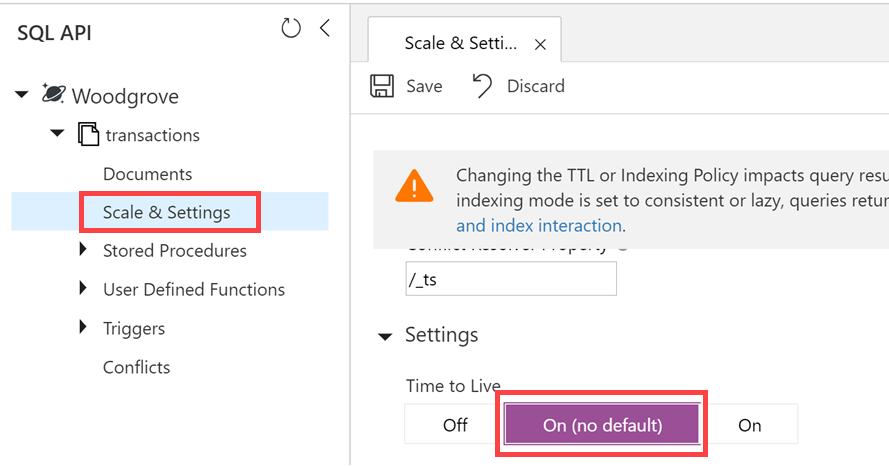
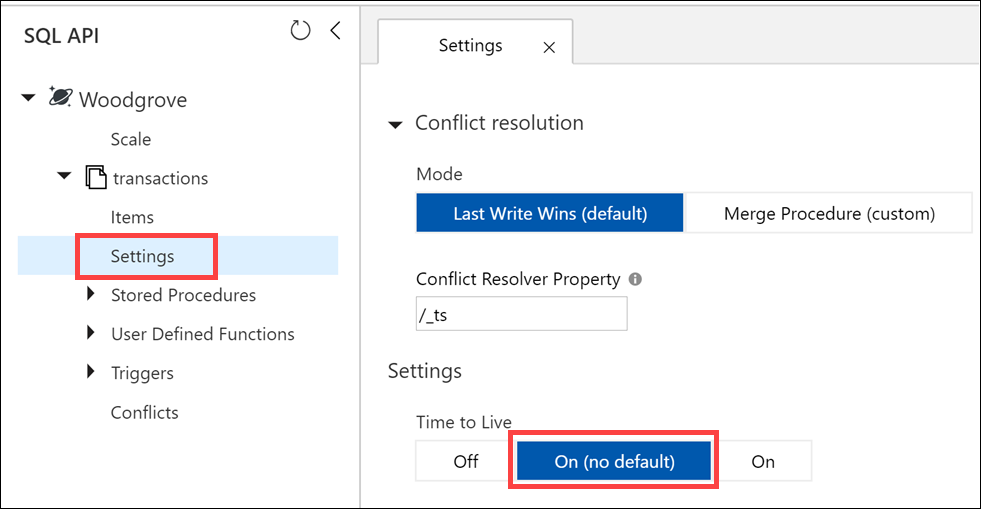
Test/fix updates and WDS current process clarification

diff --git a/Whiteboard design session/WDS trainer guide - Cosmos DB real-time advanced analytics.md b/Whiteboard design session/WDS trainer guide - Cosmos DB real-time advanced analytics.md
@@ -9,7 +9,7 @@ Whiteboard design session trainer guide
 </div>
 
 <div class="MCWHeader3">
-April 2019
+June 2019
 </div>
 
 Information in this document, including URL and other Internet Web site references, is subject to change without notice. Unless otherwise noted, the example companies, organizations, products, domain names, e-mail addresses, logos, people, places, and events depicted herein are fictitious, and no association with any real company, organization, product, domain name, e-mail address, logo, person, place or event is intended or should be inferred. Complying with all applicable copyright laws is the responsibility of the user. Without limiting the rights under copyright, no part of this document may be reproduced, stored in or introduced into a retrieval system, or transmitted in any form or by any means (electronic, mechanical, photocopying, recording, or otherwise), or for any purpose, without the express written permission of Microsoft Corporation.
@@ -31,10 +31,11 @@ Microsoft and the trademarks listed at <https://www.microsoft.com/legal/intellec
   - [Whiteboard design session flow](#whiteboard-design-session-flow)
   - [Before the whiteboard design session: How to prepare](#before-the-whiteboard-design-session-how-to-prepare)
   - [During the whiteboard design session: Tips for an effective whiteboard design session](#during-the-whiteboard-design-session-tips-for-an-effective-whiteboard-design-session)
-- [Cosmos DB real-time advanced analytics whiteboard design session student guide](#\insert-workshop-name-here-whiteboard-design-session-student-guide)
+- [Cosmos DB real-time advanced analytics whiteboard design session student guide](#cosmos-db-real-time-advanced-analytics-whiteboard-design-session-student-guide)
   - [Abstract and learning objectives](#abstract-and-learning-objectives)
   - [Step 1: Review the customer case study](#step-1-review-the-customer-case-study)
     - [Customer situation](#customer-situation)
+      - [Woodgrove's current process](#woodgroves-current-process)
     - [Customer needs](#customer-needs)
     - [Customer objections](#customer-objections)
     - [Infographic for common scenarios](#infographic-for-common-scenarios)
@@ -42,7 +43,7 @@ Microsoft and the trademarks listed at <https://www.microsoft.com/legal/intellec
   - [Step 3: Present the solution](#step-3-present-the-solution)
   - [Wrap-up](#wrap-up)
   - [Additional references](#additional-references)
-- [Cosmos DB real-time advanced analytics whiteboard design session trainer guide](#\insert-workshop-name-here-whiteboard-design-session-trainer-guide)
+- [Cosmos DB real-time advanced analytics whiteboard design session trainer guide](#cosmos-db-real-time-advanced-analytics-whiteboard-design-session-trainer-guide)
   - [Step 1: Review the customer case study](#step-1-review-the-customer-case-study-1)
   - [Step 2: Design a proof of concept solution](#step-2-design-a-proof-of-concept-solution-1)
   - [Step 3: Present the solution](#step-3-present-the-solution-1)
@@ -202,11 +203,26 @@ While all forms of fraud are on the rise, like ATM fraud, card transaction fraud
 
 Given this focus on online fraud, they want to provide new services to their merchant customers, helping them save costs by applying machine learning and advanced analytics to detect fraudulent transactions. Their customers are around the world, and the right solutions for them would minimize any latencies experienced using their service by distributing as much of the solution as possible, as closely as possible, to the regions in which their customers use the service. This is the solution for which they would like to implement a PoC.
 
-In flagging fraudulent transactions, they know there are tradeoffs between being overly aggressive and mistakenly identifying innocuous transactions as fraudulent, and not being aggressive enough such that they miss transactions that represent real fraud. According to Mari Stephens, Chief Information Officer (CIO), Woodgrove Bank, they would rather miss a fraudulent event in their automated system, than mistakenly identify innocuous transactions as fraudulent because the latter will frustrate both their merchant customer and the end customers and potentially lose their business. However, they want to balance this by doing as much as they can to detect fraud while minimizing the customer frustration. To address this, they believe the PoC will need to handle transactions at two "speeds". First, they want to screen transactions for fraud as they happen, only blocking a transaction if the system is very confident it is fraudulent. Second, they want to perform a more in-depth, offline fraud sweep of transactions to identify suspicious transactions. These are transactions which are potentially fraud, for which they will notify the merchant that they should perform additional verification with the end customer before completing the order.
+In flagging fraudulent transactions, they know there are tradeoffs between being overly aggressive and mistakenly identifying innocuous transactions as fraudulent, and not being aggressive enough such that they miss transactions that represent real fraud. According to Mari Stephens, Chief Information Officer (CIO), Woodgrove Bank, they would rather miss a fraudulent event in their automated system, than mistakenly identify innocuous transactions as fraudulent because the latter will frustrate both their merchant customer and the end customers and potentially lose their business. However, they want to balance this by doing as much as they can to detect fraud while minimizing the customer frustration. To address this, they believe the PoC will need to handle transactions at two "speeds". First, they want to screen transactions for fraud as they happen, only blocking a transaction if the system is very confident it is fraudulent. Second, they want to perform a more in-depth, offline fraud sweep of transactions to identify suspicious transactions. These are transactions which are potentially fraud, for which they will notify the merchant that they should perform additional verification with the end customer before completing the order. This deeper analysis that is performed in batch may use a slightly different ML model, but since it is a more intensive run, it needs to be run in batch and score transactions a little less leniently than the real-time scoring model. Remember, Woodgrove wants to minimize false positives during real-time scoring, but do a deeper analysis of the transactions later on and possibly tag those that were not blocked as suspicious.
 
 They have decades worth of historical transaction data (including transactions identified as fraudulent) that they believe would be helpful in the fraud detection PoC. This data is in tabular format and can be exported to CSV files if needed.
 
 The analysts at Woodgrove Bank are very interested in the recent notebook-driven approach to performing data science and data engineering tasks, and would prefer a solution that features notebooks as the standard way to explore data, prepare data, model, and define the logic for scheduled processing.
+
+#### Woodgrove's current process
+
+Woodgrove Bank provides a RESTful API that their merchant customers use to submit payments. The POC you design should not interrupt this process in any way. The solution you design needs to run side-by-side and augment their current process without changing their current workflow. Currently, as payments flow through their API endpoints, a series of cardholder verification steps are executed, such as matching the cardholder's billing address to their account. Once this validation check has completed, Woodgrove returns an authorization ID to the merchant, along with a status (accepted, rejected, declined, etc.). The payment details are entered into a relational database and the back-end payment process continues. There may be an opportunity to modify this process down the road, but that is not the focus of the POC.
+
+The customer is asking for 2 additions to their current process:
+
+- A RESTful API that can be called for immediate scoring on a transaction to see whether it should be blocked due to reasonably high-level confidence that it is fraudulent. Remember, this step should have a low number of false positives. The batch process that conducts a deeper sweep should flag suspicious transactions that were not blocked by this initial check.
+- A real-time data ingestion pipeline they can pass data to at the time they save the payment transaction data from within their API. This should sit side-by-side with their current process, not change it.
+
+To clarify, the requirement for real-time scoring of the payment transaction as fraudulent is not the same as the real-time ingest of all payment transaction data.
+
+Below is a simple diagram Woodgrove Bank provided of their current process (blue boxes), showing where they would like you to fit in the new POC components (yellow boxes).
+
+![Diagram provided by Woodgrove Bank showing their current process and where they would like you to add the new POC components.](media/woodgrove-bank-current-process.png "Woodgrove Bank's current process")
 
 ### Customer needs
 

diff --git a/Hands-on lab/HOL step-by step - Cosmos DB real-time advanced analytics.md b/Hands-on lab/HOL step-by step - Cosmos DB real-time advanced analytics.md
@@ -9,7 +9,7 @@ Hands-on lab step-by-step
 </div>
 
 <div class="MCWHeader3">
-May 2019
+June 2019
 </div>
 
 Information in this document, including URL and other Internet Web site references, is subject to change without notice. Unless otherwise noted, the example companies, organizations, products, domain names, e-mail addresses, logos, people, places, and events depicted herein are fictitious, and no association with any real company, organization, product, domain name, e-mail address, logo, person, place or event is intended or should be inferred. Complying with all applicable copyright laws is the responsibility of the user. Without limiting the rights under copyright, no part of this document may be reproduced, stored in or introduced into a retrieval system, or transmitted in any form or by any means (electronic, mechanical, photocopying, recording, or otherwise), or for any purpose, without the express written permission of Microsoft Corporation.
@@ -249,11 +249,11 @@ Next you will pass in the Azure Cosmos DB URI and Key values to the data generat
 
    ![Data Explorer is selected within the left-hand menu](media/cosmos-db-data-explorer-link.png 'Select Data Explorer')
 
-2. Expand your **Woodgrove** database and your **transactions** collection, then select **Scale & Settings**.
+2. Expand your **Woodgrove** database and your **transactions** container, then select **Settings**.
 
-3. Under Settings within the Scale & Settings blade, select the **On (no default)** option for Time to Live. This setting is required to allow documents added to the collection to be configured with their own TTL values.
+3. Under Settings within the Settings blade, select the **On (no default)** option for Time to Live. This setting is required to allow documents added to the container to be configured with their own TTL values.
 
-   ![The Scale & Settings blade is shown with the On (no default) Time to Live option selected.](media/cosmos-db-ttl-settings.png 'Scale & Settings blade')
+   ![The Settings blade is shown with the On (no default) Time to Live option selected.](media/cosmos-db-ttl-settings.png 'Settings blade')
 
 4. Select **Save** to apply your settings.
 
@@ -294,17 +294,17 @@ Next you will pass in the Azure Cosmos DB URI and Key values to the data generat
     };
     ```
 
-10. Save your changes.
+12. Save your changes.
 
-11. Run the console app by clicking **Debug**, then **Start Debugging** in the top menu in Visual Studio, or press _F-5_ on your keyboard.
+13. Run the console app by clicking **Debug**, then **Start Debugging** in the top menu in Visual Studio, or press _F-5_ on your keyboard.
 
     ![Screenshot showing the Debug menu expanded in Visual Studio with the Start Debugging menu option highlighted.](media/debug-in-vs.png 'Debug')
 
-12. The PaymentGenerator console window will open, and you should see it start to send data after a few seconds. You may close the window or press `Ctrl+C` or `Ctrl+Break` at any time to stop sending data to Event Hubs and Cosmos DB.
+14. The PaymentGenerator console window will open, and you should see it start to send data after a few seconds. You may close the window or press `Ctrl+C` or `Ctrl+Break` at any time to stop sending data to Event Hubs and Cosmos DB.
 
     ![Screenshot of the PaymentGenerator console window running.](media/payment-generator-console.png 'Payment Generator console window')
 
-    The top of the output displays information about the Cosmos DB collection you created (transactions), the requested RU/s as well as estimated hourly and monthly cost. After every 1,000 records are requested to be sent, you will see output statistics so you can compare Event Hubs to Cosmos DB. Be on the lookout for the following:
+    The top of the output displays information about the Cosmos DB container you created (transactions), the requested RU/s as well as estimated hourly and monthly cost. After every 1,000 records are requested to be sent, you will see output statistics so you can compare Event Hubs to Cosmos DB. Be on the lookout for the following:
 
     - Compare Event Hub to Cosmos DB statistics. They should have similar processing times and successful calls.
     - Inserted line shows successful inserts in this batch and throughput for writes/second with RU/s usage and estimated monthly ingestion rate added to Cosmos DB statistics.
@@ -317,7 +317,7 @@ Next you will pass in the Azure Cosmos DB URI and Key values to the data generat
 
     > The obvious and recommended method for sending a lot of data is to do so in batches. This method can multiply the amount of data sent with each request by hundreds or thousands. However, the point of our exercise is not to maximize throughput and send as much data as possible, but to compare the relative performance between Event Hubs and Cosmos DB.
 
-13. As an experiment, scale the number of requested RU/s for your Cosmos DB collection down to 700. After doing so, you should see increasingly slower transfer rates to Cosmos DB due to throttling. You will also see the pending queue growing at a higher rate. The reason for this is because when the number of writes (remember, writes _typically_ use 5 RU/s vs. just 1 RU/s for reads on 1 KB-sized documents) exceeds the allotted amount of RU/s, Cosmos DB sends a 429 response with a _retry_after_ header value to tell the consumer that it is resource-constrained. The SDK automatically handles this by waiting for the specified amount of time, then retrying. After you are done experimenting, set the RU/s back to 15,000.
+15. As an experiment, scale the number of requested RU/s for your Cosmos DB container down to 700. After doing so, you should see increasingly slower transfer rates to Cosmos DB due to throttling. You will also see the pending queue growing at a higher rate. The reason for this is because when the number of writes (remember, writes _typically_ use 5 RU/s vs. just 1 RU/s for reads on 1 KB-sized documents) exceeds the allotted amount of RU/s, Cosmos DB sends a 429 response with a _retry_after_ header value to tell the consumer that it is resource-constrained. The SDK automatically handles this by waiting for the specified amount of time, then retrying. After you are done experimenting, set the RU/s back to 15,000.
 
 ### Task 4: Choosing between Cosmos DB and Event Hubs for ingestion
 

diff --git a/Hands-on lab/Before the HOL - Cosmos DB real-time advanced analytics.md b/Hands-on lab/Before the HOL - Cosmos DB real-time advanced analytics.md
@@ -9,7 +9,7 @@ Before the hands-on lab setup guide
 </div>
 
 <div class="MCWHeader3">
-May 2019
+June 2019
 </div>
 
 Information in this document, including URL and other Internet Web site references, is subject to change without notice. Unless otherwise noted, the example companies, organizations, products, domain names, e-mail addresses, logos, people, places, and events depicted herein are fictitious, and no association with any real company, organization, product, domain name, e-mail address, logo, person, place or event is intended or should be inferred. Complying with all applicable copyright laws is the responsibility of the user. Without limiting the rights under copyright, no part of this document may be reproduced, stored in or introduced into a retrieval system, or transmitted in any form or by any means (electronic, mechanical, photocopying, recording, or otherwise), or for any purpose, without the express written permission of Microsoft Corporation.
@@ -179,47 +179,47 @@ In this task, you will create an Azure resource group for the resources used thr
 
 1. In the Azure Portal, navigate to **Azure Active Directory**, then select **Users** under Manage.
 
-    ![Azure Active Directory blade with Users highlighted](media/deploy-azure-ad-users-link.png "Azure Active Directory blade with Users highlighted")
+   ![Azure Active Directory blade with Users highlighted](media/deploy-azure-ad-users-link.png 'Azure Active Directory blade with Users highlighted')
 
 2. Select the user your currently logged into the Azure Portal with.
 
-    ![All users list with user highlighted](media/deploy-azure-ad-user-list.png "All users list with user highlighted")
+   ![All users list with user highlighted](media/deploy-azure-ad-user-list.png 'All users list with user highlighted')
 
 3. On the **User** blade, copy the **Object ID** for this user.
 
-    ![User blade is shown with Object ID highlighted](media/deploy-azure-ad-user-object-id.png "User blade is shown with Object ID highlighted")
+   ![User blade is shown with Object ID highlighted](media/deploy-azure-ad-user-object-id.png 'User blade is shown with Object ID highlighted')
 
 4. Select **Create a resource**, then search for and select **Template Deployment**.
 
-    ![Create a resource is highlighted as step 1, and the search box is highlighted a step 2 with template deployment entered](media/deploy-create-resource-search-template-deployment.png "Create a resource is highlighted as step 1, and the search box is highlighted a step 2 with template deployment entered")
+   ![Create a resource is highlighted as step 1, and the search box is highlighted a step 2 with template deployment entered](media/deploy-create-resource-search-template-deployment.png 'Create a resource is highlighted as step 1, and the search box is highlighted a step 2 with template deployment entered')
 
 5. On the **Custom deployment** blade, select the **Build your own template in the editor** link.
 
-    ![](media/deploy-deployment-build-your-own-link.png)
+   ![](media/deploy-deployment-build-your-own-link.png)
 
 6. On the **Edit template** blade, click the **Load file** button to select the ARM Template to use.
 
-    ![The Load file button is highlighted](media/deploy-deployment-load-file-button.png "The Load file button is highlighted")
+   ![The Load file button is highlighted](media/deploy-deployment-load-file-button.png 'The Load file button is highlighted')
 
 7. Select the `C:\CosmosMCW\MCW-Cosmos-DB-Real-Time-Advanced-Analytics-master\Hands-on lab\Deployment\environment-template.json` ARM Template.
 
 8. Click **Save**.
 
-    ![The Save button is highlighted](media/deploy-deployment-arm-template-save.png "The Save button is highlighted")
+   ![The Save button is highlighted](media/deploy-deployment-arm-template-save.png 'The Save button is highlighted')
 
 9. Enter the following values:
 
-    - Resource group: **select the Resource Group created previously for the lab**
-    - Key Vault Access Policy User Object Id: **paste in the User Object ID that was copied previously from Azure Active Directory**
+   - Resource group: **select the Resource Group created previously for the lab**
+   - Key Vault Access Policy User Object Id: **paste in the User Object ID that was copied previously from Azure Active Directory**
 
-    ![The parameters specified are highlighted](media/deploy-deployment-parameter-fields.png "The parameters specified are highlighted")
+   ![The parameters specified are highlighted](media/deploy-deployment-parameter-fields.png 'The parameters specified are highlighted')
 
 10. Check the **I agree...** check box, then click **Purchase**.
 
-    ![The I agree checkbox and the purchase button are highlighted](media/deploy-deployment-purchase-button.png "The I agree checkbox and the purchase button are highlighted")
+    ![The I agree checkbox and the purchase button are highlighted](media/deploy-deployment-purchase-button.png 'The I agree checkbox and the purchase button are highlighted')
 
 11. The deployment will likely take 5 - 10 minutes to deploy.
 
-    ![The deployment progress is shown](media/deploy-deployment-progress.png "The deployment progress is shown")
+    ![The deployment progress is shown](media/deploy-deployment-progress.png 'The deployment progress is shown')
 
 You should follow all steps provided _before_ performing the Hands-on lab.

diff --git a/Whiteboard design session/WDS student guide - Cosmos DB real-time advanced analytics.md b/Whiteboard design session/WDS student guide - Cosmos DB real-time advanced analytics.md
@@ -9,7 +9,7 @@ Whiteboard design session student guide
 </div>
 
 <div class="MCWHeader3">
-April 2019
+June 2019
 </div>
 
 Information in this document, including URL and other Internet Web site references, is subject to change without notice. Unless otherwise noted, the example companies, organizations, products, domain names, e-mail addresses, logos, people, places, and events depicted herein are fictitious, and no association with any real company, organization, product, domain name, e-mail address, logo, person, place or event is intended or should be inferred. Complying with all applicable copyright laws is the responsibility of the user. Without limiting the rights under copyright, no part of this document may be reproduced, stored in or introduced into a retrieval system, or transmitted in any form or by any means (electronic, mechanical, photocopying, recording, or otherwise), or for any purpose, without the express written permission of Microsoft Corporation.
@@ -26,10 +26,11 @@ Microsoft and the trademarks listed at <https://www.microsoft.com/en-us/legal/in
 
 <!-- TOC -->
 
-- Cosmos DB real-time advanced analytics whiteboard design session student guide](#\insert-workshop-name-here\-whiteboard-design-session-student-guide)
+- [Cosmos DB real-time advanced analytics whiteboard design session student guide](#cosmos-db-real-time-advanced-analytics-whiteboard-design-session-student-guide)
   - [Abstract and learning objectives](#abstract-and-learning-objectives)
   - [Step 1: Review the customer case study](#step-1-review-the-customer-case-study)
     - [Customer situation](#customer-situation)
+      - [Woodgrove's current process](#woodgroves-current-process)
     - [Customer needs](#customer-needs)
     - [Customer objections](#customer-objections)
     - [Infographic for common scenarios](#infographic-for-common-scenarios)
@@ -81,6 +82,21 @@ In flagging fraudulent transactions, they know there are tradeoffs between being
 They have decades worth of historical transaction data (including transactions identified as fraudulent) that they believe would be helpful in the fraud detection PoC. This data is in tabular format and can be exported to CSV files if needed.
 
 The analysts at Woodgrove Bank are very interested in the recent notebook-driven approach to performing data science at data engineering tasks and would prefer a solution that features notebooks as the standard way to explore data, prepare data, model, and define the logic for scheduled processing.
+
+#### Woodgrove's current process
+
+Woodgrove Bank provides a RESTful API that their merchant customers use to submit payments. The POC you design should not interrupt this process in any way. The solution you design needs to run side-by-side and augment their current process without changing their current workflow. Currently, as payments flow through their API endpoints, a series of cardholder verification steps are executed, such as matching the cardholder's billing address to their account. Once this validation check has completed, Woodgrove returns an authorization ID to the merchant, along with a status (accepted, rejected, declined, etc.). The payment details are entered into a relational database and the back-end payment process continues. There may be an opportunity to modify this process down the road, but that is not the focus of the POC.
+
+The customer is asking for 2 additions to their current process:
+
+- A RESTful API that can be called for immediate scoring on a transaction to see whether it should be blocked due to reasonably high-level confidence that it is fraudulent. Remember, this step should have a low number of false positives. The batch process that conducts a deeper sweep should flag suspicious transactions that were not blocked by this initial check.
+- A real-time data ingestion pipeline they can pass data to at the time they save the payment transaction data from within their API. This should sit side-by-side with their current process, not change it.
+
+To clarify, the requirement for real-time scoring of the payment transaction as fraudulent is not the same as the real-time ingest of all payment transaction data.
+
+Below is a simple diagram Woodgrove Bank provided of their current process (blue boxes), showing where they would like you to fit in the new POC components (yellow boxes).
+
+![Diagram provided by Woodgrove Bank showing their current process and where they would like you to add the new POC components.](media/woodgrove-bank-current-process.png "Woodgrove Bank's current process")
 
 ### Customer needs
 
